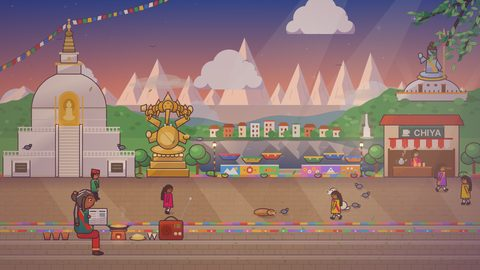
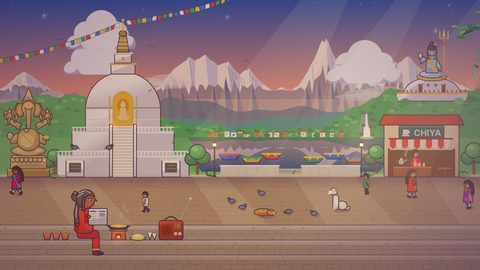
Pokhara: irregular Himalayan range, plain kerbs and wall, Ganesh and stupa swapped, new Ganesh, red saree, no festival lights
Claude-Session: https://claude.ai/code/session_019ufPWj3H2YM7Ab3prv28rm

diff --git a/public/index.html b/public/index.html
@@ -740,7 +740,7 @@ function daiPlan(h){let mode='sit';if(dogNight(h))mode='sleep';
 function daiWalker(ret){const S=MIR?-1:1,dir=ret?S:-S,ch=who(),am=ch==='aama',dd=ch==='didi'||am;const w=newWalker(true,dd?'didi':'dai');
   Object.assign(w,{dir,x:ret?(S>0?-16:W+16):mx(GX+6),y:147,sp:7,daiW:true,ret,cup:ret,bcols:[],umbItem:true,umb:'#1d1d24',skin:'#a86b45',hair:'#1b1410'},
     dd?{shirt:'#8a2a4a',shirtD:'#6e1f3a',shirt2:'#e8b04a',legC:'#4a3a5a',topi:false}:ch==='baje'?{shirt:'#34343a',shirtD:'#28282c',shirt2:'#34343a',legC:'#d8ccb4',hair:'#bdb7ae',topi:true,topiCol:'#1c1c1e',stick:true}:{shirt:'#3d4a5c',shirtD:'#35404f',shirt2:'#3d4a5c',legC:'#2f2f3a',topi:true});
-  if(am)Object.assign(w,{shirt:'#1f6a5c',shirtD:'#17524a',shirt2:'#b8322a',legC:'#b8322a',skin:'#8a563a',hair:'#4a4440'});return w;}
+  if(am)Object.assign(w,{shirt:'#b8322a',shirtD:'#8e2219',shirt2:'#cf463a',legC:'#b8322a',skin:'#8a563a',hair:'#4a4440'});return w;}
 function updDai(h,dt){const P=daiPlan(h);dai=P;
   if(st.tm==='live'&&daiPrev&&daiPrev!=='away'&&P.mode==='away'){walkers.push(daiWalker(false));daiRet=false;}
   if(st.tm==='live'&&P.mode==='away'&&P.left<11&&!daiRet){daiRet=true;walkers.push(daiWalker(true));}
@@ -760,14 +760,14 @@ function drawRadio(c){const x=GX+ROFF;
   R(c,rx+10,ry+7,2,2,'#c9b48a');R(c,rx+13,ry+7,2,2,'#c9b48a');R(c,rx+10,ry+7,1,1,'#efe2c8');R(c,rx+13,ry+7,1,1,'#efe2c8');
   for(let i=0;i<14;i++)R(c,rx+14+Math.floor(i*.5),ry-1-i,1,1,'#9aa0a6');R(c,rx+20,ry-15,2,2,'#cfd4d8');
 }
-function drawSitting(c){const am=who()==='aama',dd=who()==='didi'||am,bj=who()==='baje',x=GX,b=radioOn&&!daiSip?Math.floor(performance.now()/1000*curTempo()/60)%2:0,hy=131+b,skin=am?'#8a563a':'#a86b45',skD=am?'#70432c':'#8d5a3b',jk=am?'#1f6a5c':dd?'#8a2a4a':bj?'#34343a':'#3d4a5c',jkD=am?'#17524a':dd?'#6e1f3a':bj?'#28282c':'#35404f',pant=am?'#b8322a':dd?'#4a3a5a':bj?'#d8ccb4':'#2f2f3a',hair=bj?'#bdb7ae':am?'#4a4440':'#1b1410';
+function drawSitting(c){const am=who()==='aama',dd=who()==='didi'||am,bj=who()==='baje',x=GX,b=radioOn&&!daiSip?Math.floor(performance.now()/1000*curTempo()/60)%2:0,hy=131+b,skin=am?'#8a563a':'#a86b45',skD=am?'#70432c':'#8d5a3b',jk=am?'#b8322a':dd?'#8a2a4a':bj?'#34343a':'#3d4a5c',jkD=am?'#8e2219':dd?'#6e1f3a':bj?'#28282c':'#35404f',pant=am?'#b8322a':dd?'#4a3a5a':bj?'#d8ccb4':'#2f2f3a',hair=bj?'#bdb7ae':am?'#4a4440':'#1b1410';
   // legs: thigh on the step, shin down to the next step
   R(c,x+2,154,13,5,pant);R(c,x+2,154,13,1,am?'#8e2219':'#3a3a46');R(c,x+12,159,4,9,pant);R(c,x+15,159,1,9,am?'#8e2219':'#26262f');
   if(am){R(c,x+11,160,1,8,pant);R(c,x+11,167,5,1,'#e8b04a');}
   R(c,x+11,168,7,2,'#241b15');R(c,x+17,169,1,1,'#241b15');
   // body
   R(c,x+1,140,10,1,jk);R(c,x,141,12,14,jk);R(c,x,141,2,14,jkD);
-  if(dd){for(let i=0;i<12;i++)R(c,x+1+Math.floor(i*.75),141+i,3,1,am?'#b8322a':'#e8b04a');if(am)for(let i=0;i<12;i++)R(c,x+4+Math.floor(i*.75),141+i,1,1,'#e8b04a');}   // her shawl across the kurta (the aama: the end of her saree)
+  if(dd){for(let i=0;i<12;i++)R(c,x+1+Math.floor(i*.75),141+i,3,1,am?'#cf463a':'#e8b04a');}   // her shawl across the kurta (the aama: the end of her saree)
   else{R(c,x+8,140,3,1,'#e9dcc3');R(c,x+9,141,2,3,'#e9dcc3');R(c,x+8,141,1,8,'#2c3746');R(c,x+3,149,3,1,'#2c3746');}
   // reading: newspaper in the morning, a book later; lowers it to sip fresh tea
   const sip=daiSip;R(c,x+6,142,3,7,jkD);
@@ -834,7 +834,7 @@ let fest=null;
 /* Kukur Tihar (the dogs' day): calendars give 7-8 Nov 2026, so both days. Preview: chiyabreak.com/#kukur */
 const KUKUR=['2026-11-07','2026-11-08'];let kukur=false;
 function pickKukur(){if(location.hash.slice(1).toLowerCase()==='kukur')return true;const ds=new Date(Date.now()+5.75*3600e3).toISOString().slice(0,10);return KUKUR.includes(ds);}
-function pickFest(){const hs=location.hash.slice(1).toLowerCase();kukur=pickKukur();if(hs==='kukur')return 'tihar';if(FESTS.some(f=>f.name===hs))return hs;
+function pickFest(){if(place==='pkr'){kukur=false;return null;}const hs=location.hash.slice(1).toLowerCase();kukur=pickKukur();if(hs==='kukur')return 'tihar';if(FESTS.some(f=>f.name===hs))return hs;
   const ds=new Date(Date.now()+5.75*3600e3).toISOString().slice(0,10),f=FESTS.find(f=>ds>=f.from&&ds<=f.to);return f?f.name:null;}
 fest=pickFest();setInterval(()=>{fest=pickFest();},30000);addEventListener('hashchange',()=>{fest=pickFest();});
 const textW=t=>[...t].reduce((a,ch)=>a+(GL[ch]?GL[ch][0].length:3)+1,0)-1;
@@ -1040,7 +1040,7 @@ function anSky(h,night,warm,grey,ct){const X=C,[top,bot]=skyAt(h),day=1-night;WI
 }
 
 /* ---------- prayer flags (lungta) strung from the temple tops ---------- */
-const AN_FLAGS={ktm:[[160,23,-6,27],[160,23,326,36]],patan:[[157,7,-6,52],[157,7,326,33]],bkt:[[165,9,-6,29],[165,9,326,37]],pkr:[[46,14,-6,48],[46,14,128,-8]]};
+const AN_FLAGS={ktm:[[160,23,-6,27],[160,23,326,36]],patan:[[157,7,-6,52],[157,7,326,33]],bkt:[[165,9,-6,29],[165,9,326,37]],pkr:[[82,14,-6,40],[82,14,170,-8]]};
 function anFlags(){const F=AN_FLAGS[place];if(!F)return;const cols=['#2f72d8','#fbf6ea','#e03a30','#34ad5c','#f7c832'];
   F.forEach(([x1,y1,x2,y2],si)=>{const len=Math.hypot(x2-x1,y2-y1),n=Math.floor(len/3.5),cxm=(x1+x2)/2,cym=(y1+y2)/2+len*.07+Math.sin(T*.8+si)*.7;
     const pt=t=>{const u=1-t;return[u*u*x1+2*u*t*cxm+t*t*x2,u*u*y1+2*u*t*cym+t*t*y2];};
@@ -1057,9 +1057,10 @@ function anLeaf(x,y,ang,s,col,ink){C.save();C.translate(x,y);C.rotate(ang);C.beg
   if(ink){C.lineWidth=.2;C.strokeStyle=ink;C.stroke();C.beginPath();C.moveTo(s*.12,0);C.lineTo(s*.8,0);C.stroke();}C.restore();}
 function anFront(night){const day=1-night,dk=hex('#141a3c'),tone=c=>css(mixA(hex(c),dk,night*.72));
   // the branch in the top right corner, swaying
+  C.save();if(place==='pkr')C.translate(29,9);
   sStroke([324,-4,300,5,280,13],tone('#5a3a26'),1.3);sStroke([312,1,304,16,298,30],tone('#5a3a26'),.9);sStroke([322,8,312,26,307,38],tone('#5a3a26'),.8);
   const G=['#2a7242','#3c9450','#62b65c','#9ad66c'],ink=`rgba(30,24,44,${.55})`;
-  AN_LEAVES.forEach(l=>anLeaf(l.x+Math.sin(T*1.1+l.p)*.5*WIND,l.y+Math.cos(T*.9+l.p)*.3,l.a+Math.sin(T*1.5+l.p)*.16*WIND,l.s,tone(G[l.c]),l.c>1?ink:''));
+  AN_LEAVES.forEach(l=>anLeaf(l.x+Math.sin(T*1.1+l.p)*.5*WIND,l.y+Math.cos(T*.9+l.p)*.3,l.a+Math.sin(T*1.5+l.p)*.16*WIND,l.s,tone(G[l.c]),l.c>1?ink:''));C.restore();
   // leaves and petals carried on the wind
   if(wx.rain<.5)for(let i=0;i<11;i++){const sp=9+i%4*3,x=((T*sp+i*83)%372)-26,y=((T*(4.5+i%3*1.6)+i*47)%196)-8+Math.sin(T*1.3+i)*4;
     anLeaf(x,y,T*(1.6+i%3*.5)+i,2.2+i%3*.5,tone(i%4===0?'#f29ab0':i%4===1?'#f4c24a':G[2+i%2]),'rgba(30,24,44,.4)');}
@@ -1402,12 +1403,12 @@ function sRadio(){const rx=GX+20+ROFF,ry=147;
   sC(rx+5,ry+6.9,3.8,'#5a2018',0);for(let a=0;a<TAU;a+=TAU/8)sC(rx+5+Math.cos(a)*2.3,ry+6.9+Math.sin(a)*2.3,.38,'#2e100c',0);sC(rx+5,ry+6.9,.7,'#2e100c',0);
   sR(rx+10,ry+2.2,4.3,3,.5,radioOn?'#ffd27a':'#6b5a3a',0);sB(rx+11+(radioOn?Math.sin(T*.6)*1.2+1:0),ry+2.2,.5,3,'#7a2e22');
   sC(rx+11.1,ry+8.8,1.1,'#c9b48a',0);sC(rx+13.9,ry+8.8,1.1,'#c9b48a',0);sC(rx+10.8,ry+8.5,.35,'#efe2c8',0);sC(rx+13.6,ry+8.5,.35,'#efe2c8',0);}
-function sDaiSit(){const am=who()==='aama',dd=who()==='didi'||am,bj=who()==='baje',x=GX,b=radioOn&&!daiSip?(TH.an?(.5-.5*Math.cos(performance.now()/1000*curTempo()/60*Math.PI))*.9+.001:(Math.floor(performance.now()/1000*curTempo()/60)%2)*.8):0,hy=131+b,skin=am?'#8a563a':'#a86b45',skD=am?'#70432c':'#8d5a3b',jk=am?'#1f6a5c':dd?'#8a2a4a':bj?'#34343a':'#3d4a5c',jkD=am?'#17524a':dd?'#6e1f3a':bj?'#28282c':'#33404f',pant=am?'#b8322a':dd?'#4a3a5a':bj?'#d8ccb4':'#2f2f3a',hair=bj?'#bdb7ae':am?'#4a4440':'#1b1410';
+function sDaiSit(){const am=who()==='aama',dd=who()==='didi'||am,bj=who()==='baje',x=GX,b=radioOn&&!daiSip?(TH.an?(.5-.5*Math.cos(performance.now()/1000*curTempo()/60*Math.PI))*.9+.001:(Math.floor(performance.now()/1000*curTempo()/60)%2)*.8):0,hy=131+b,skin=am?'#8a563a':'#a86b45',skD=am?'#70432c':'#8d5a3b',jk=am?'#b8322a':dd?'#8a2a4a':bj?'#34343a':'#3d4a5c',jkD=am?'#8e2219':dd?'#6e1f3a':bj?'#28282c':'#33404f',pant=am?'#b8322a':dd?'#4a3a5a':bj?'#d8ccb4':'#2f2f3a',hair=bj?'#bdb7ae':am?'#4a4440':'#1b1410';
   sR(x+11.6,156,4.6,12.6,1.8,pant);sE(x+15.3,168.9,3.7,1.35,'#241b15');
   sR(x+1.4,153.4,14.6,5.4,2.4,pant);
   sR(x-.4,139.6,12.6,16,3.2,jk);sR(x+.3,141.2,2.4,13.4,1.2,jkD,0);
-  if(dd)sP([x+.2,140.2,x+3.4,139.8,x+11.6,152.4,x+8.4,153.6],am?'#b8322a':'#e8b04a',0);   // her shawl (the aama: the end of her saree, with a gold border)
-  if(am){sL(x+3.4,139.9,x+11.6,152.4,'#e8b04a',.5);sR(x+11.4,165.6,5,1.1,.4,'#e8b04a',0);}
+  if(dd)sP([x+.2,140.2,x+3.4,139.8,x+11.6,152.4,x+8.4,153.6],am?'#cf463a':'#e8b04a',0);   // her shawl (the aama: the end of her red saree)
+  if(am)sR(x+11.4,165.8,5,.9,.4,'#e8b04a',0);
   else{sP([x+7.6,139.8,x+11.4,139.8,x+9.8,145.2],'#e9dcc3',0);sL(x+8.4,142,x+8.4,149.6,'#2c3746',.35);}
   const tend=am&&pkTend();
   if(dai.read==='paper'){const py=daiSip||tend?147:139;
@@ -1790,18 +1791,20 @@ function pkBoat(D,x,y,len,c1,c2,s=1){const hl=len/2;D.poly([x-hl,y-1.7*s,x+hl,y-
   D.rect(x-hl*.45,y-1.5*s,1.1*s,1*s,c2);D.rect(x+hl*.3,y-1.5*s,1.1*s,1*s,c2);}
 function pkrGround(D){const r=D.px?rnd:srnd;
   const ridge=(f)=>{const p=[0,LAKE_Y+1];for(let x=0;x<=320;x+=4)p.push(x,f(x));p.push(320,LAKE_Y+1);return p;};
-  D.poly(ridge(x=>78+3*Math.sin(x*.045+1)+1.6*Math.sin(x*.13)),'#6c8e99');
+  D.poly(ridge(x=>79+2.6*Math.sin(x*.045+1)+1.4*Math.sin(x*.13)),'#4f7b74');
   D.poly(ridge(pkHillY),'#4c8a57');
   for(let i=0;i<230;i++){const x=r()*320,t=pkHillY(x),y=t+1.2+r()*Math.max(1,LAKE_Y-t-3);D.ell(x,y,1.3+r()*1.2,.9+r()*.5,i%3===0?'#66a968':i%3===1?'#3f7449':'#447d4f');}
   // a waterfall down the hillside
   D.poly([241,77,243,74.8,246.4,75,248.6,78,249.2,86,248,92,240,92,239.6,85,240.6,80],'#667a66');D.poly([241,77,243,74.8,244,78,242,84,239.8,88,239.6,85,240.6,80],'#7d8f78');
   D.poly([243.7,76,244.9,76,245.3,83.4,246.6,84.6,247,92,242.2,92,242.5,84.6,243.4,83.4],'#f2f8fa');D.poly([244,76,244.5,76,244.8,83.6,245.3,92,244.4,92,244.2,84],'#ffffff');
   [[242.2,83.6],[247.2,84.4],[241,89.4],[248.2,89.8]].forEach(([x,y])=>D.ell(x,y,1.4,1,'#4f5d50'));[[242,75],[247,75.6],[249,80]].forEach(([x,y])=>D.ell(x,y,2,1.3,'#3f7449'));
-  // houses on the far shore: a few old village houses and a few newer ones
-  [[140,86,6,'#e9e2d2','#8a4a34'],[149,85,7,'#c9785a','#6e3e2c'],[159,84,5,'#f1e3b8','#7a4632'],[167,82,6,'#e6ecef','#5d7f96',1],[176,81,7,'#f3d7c4','#b0553e',1],[186,84,6,'#e9e2d2','#8a4a34'],[195,83,5,'#d9e6d2','#4f7a5a',1],[203,85,7,'#c9785a','#6e3e2c'],[213,86,6,'#f1e3b8','#7a4632'],[222,87,5,'#e9e2d2','#8a4a34']].forEach(([x,y,w,col,rf,flat])=>{
-    D.rect(x,y,w,LAKE_Y-y,col);if(flat)D.rect(x-.5,y-.8,w+1,.9,rf);else D.poly([x-1,y,x+w+1,y,x+w-1,y-2.4,x+1,y-2.4],rf);
-    for(let wy=y+1.6;wy<LAKE_Y-2;wy+=3)for(let wx=x+1.2;wx<x+w-1.5;wx+=2.6){D.rect(wx,wy,1.2,1.5,'#4e2c1e');if(D.px)winGlow.push({x:wx,y:wy,w:1,h:2,on:Math.random()<.6,a:.6,rand:1});}});
-  [133,146,157,181,191,209,219,228].forEach((x,i)=>{D.ell(x,LAKE_Y-2.6,2.4,2.6,i%2?'#3f7449':'#4f8f58');});
+  // a far-away village on the other shore: small houses, old and new
+  {let q=77;const rr=()=>{q=(q*16807)%2147483647;return q/2147483647;},cols=[['#e9e2d2','#8a4a34'],['#c9785a','#6e3e2c'],['#f1e3b8','#7a4632'],['#e6ecef','#5d7f96'],['#f3d7c4','#b0553e'],['#d9e6d2','#4f7a5a']];
+    for(let x=139;x<229;){const w=2.4+rr()*1.6,hh=1.8+rr()*2,[col,rf]=cols[(rr()*cols.length)|0],y=LAKE_Y-.6-hh;
+      D.rect(x,y,w,hh+.2,col);if(rr()<.35)D.rect(x-.3,y-.5,w+.6,.6,rf);else D.poly([x-.5,y,x+w+.5,y,x+w-.5,y-1.2,x+.5,y-1.2],rf);
+      D.rect(x+w*.3,y+hh*.35,.7,.8,'#4e2c1e');if(D.px&&rr()<.7)winGlow.push({x:x+w*.3,y:y+hh*.35,w:1,h:1,on:Math.random()<.6,a:.7,rand:1});
+      x+=w+.6+rr()*3.4;}}
+  [134,147,160,178,196,211,224,231].forEach((x,i)=>{D.ell(x,LAKE_Y-1.6,1.9,1.7,i%2?'#3f7449':'#4f8f58');});
   D.rect(126,LAKE_Y-.6,134,1.6,'#3d6b47');
   // the banks on both sides of the lake, and the grass along the road
   D.poly([0,LAKE_Y,125,LAKE_Y,131,100,129,108,136,116,0,116],'#5d9e5e');D.poly([320,LAKE_Y,262,LAKE_Y,256,99,259,108,251,116,320,116],'#5d9e5e');
@@ -1811,24 +1814,15 @@ function pkrGround(D){const r=D.px?rnd:srnd;
   for(let y=118;y<150;y+=3.2){D.rect(0,y,320,.3,'#806a52');const off=((y-118)/3.2|0)%2?4:0;for(let x=off;x<320;x+=8)D.rect(x,y,.3,3.2,'#806a52');}
   for(let i=0;i<90;i++)D.rect(r()*317,119+r()*29,2.4,.8,r()<.5?'rgba(255,236,205,.13)':'rgba(50,28,12,.1)');
   if(!D.px&&TH.an)[[26,34],[128,22],[196,40],[286,26]].forEach(([x,w])=>{C.beginPath();C.moveTo(x,118);C.lineTo(x+w,118);C.lineTo(x+w+30,151);C.lineTo(x+22,151);C.closePath();C.fillStyle='rgba(255,240,186,.2)';C.fill();});
-  // Pokhara paints its roadsides: kerb stones in every colour on both sides of the road
-  for(let x=0,i=0;x<320;x+=5,i++){D.rect(x,116.4,5,1.7,PK_PAINT[i%7]);D.rect(x,148.4,5,1.7,PK_PAINT[(i+3)%7]);}
+  D.rect(0,116.4,320,1.7,'#b9ad98');D.rect(0,116.4,320,.5,'#d2c8b6');
 }
-/* --- the lakeside wall, painted with murals; the gap in the middle is the ghat where the boats leave --- */
+/* --- a plain low stone wall along the lake; the gap in the middle is the ghat where the boats leave --- */
 function pkMuralWall(D){
-  const seg=(x,w,bg,fn)=>{D.rect(x,110.4,w,6,bg);fn(x,w);};
-  const M=[['#3aa0e8',(x,w)=>{D.poly([x+1,116.4,x+4.5,112,x+6.4,114,x+8.6,111.4,x+w-1,116.4],'#fbf6ea');D.ell(x+w-2.6,112.4,1.1,1.1,'#f2c230');}],
-    ['#f2c230',(x,w)=>{D.ell(x+w/2,113.4,2.3,2.3,'#e8443a');D.ell(x+w/2,113.4,1.1,1.1,'#fbf6ea');[[-3.6,0],[3.6,0],[0,-2.6]].forEach(([a,b2])=>D.rect(x+w/2+a-.4,113+b2,.9,.9,'#e8443a'));}],
-    ['#5fbf6a',(x,w)=>{D.ell(x+w/2-.6,113.6,3,1.5,'#f08a2a');D.poly([x+w/2+2,113.6,x+w/2+4.2,112,x+w/2+4.2,115.2],'#f08a2a');D.rect(x+w/2-2.4,113,.8,.8,'#2a2a2a');}],
-    ['#e86fb4',(x,w)=>{[[2.4,113],[5.4,114.4],[8.2,112.6],[10.6,114.6]].forEach(([a,b2],i)=>{if(a<w-1){D.ell(x+a,b2,1.2,1.2,i%2?'#fbf6ea':'#f2c230');D.rect(x+a-.3,b2-.3,.7,.7,'#e8443a');}});}],
-    ['#9b6be8',(x,w)=>{D.poly([x+w/2,111.4,x+w/2+3.4,116,x+w/2-3.4,116],'#fbf6ea');D.rect(x+w/2-.4,112.8,.9,.9,'#3aa0e8');D.rect(x+1,115,w-2,.7,'#f2c230');}],
-    ['#f08a2a',(x,w)=>{for(let k=1.6;k<w-1;k+=2.6){D.rect(x+k,111.6+(k|0)%2*1.6,1.4,1.4,'#fbf6ea');D.rect(x+k,114.4-(k|0)%2*.8,1.4,1.2,'#3aa0e8');}}]];
-  [[147,186],[201,240]].forEach(([a,z],s)=>{let i=s*3;for(let x=a;x<z;x+=13,i++){const w=Math.min(13,z-x),m=M[i%M.length];seg(x,w,m[0],m[1]);}D.rect(a,109.8,z-a,.8,'#fbf6ea');});
-  // stone steps down to the water at the ghat
+  [[147,186],[201,240]].forEach(([a,z])=>{D.rect(a,110.8,z-a,5.6,'#cbc2b0');for(let x=a+6;x<z;x+=6)D.rect(x,111.6,.3,4.8,'#b4aa96');D.rect(a-.5,110,z-a+1,1.1,'#e3dccd');});
   D.rect(186,112.4,15,1.4,'#b9ad9a');D.rect(186,113.8,15,1.3,'#a39783');D.rect(186,115.1,15,1.4,'#b9ad9a');
 }
 /* --- the World Peace Stupa (the white gumba): terraces with white railings, the dome with a golden Buddha, the gilded spire --- */
-function peaceStupa(D){const cx=46,W1='#f1ede2',W2='#dcd6c8',W3='#bdb5a4',G=PGOLD;
+function peaceStupa(D){const cx=46,W1='#f1ede2',W2='#dcd6c8',W3='#bdb5a4',G='#bf9b4c',PGOLDL='#d9c080';
   const rail=(x,y,w)=>{D.rect(x,y,w,.8,W1);D.rect(x,y+2.6,w,.7,W2);for(let xx=x+.6;xx<x+w-.5;xx+=2.4)D.rect(xx,y+.6,.8,2.6,W1);};
   // dome, then the drum it stands on
   {const p=[];for(let k=0;k<=24;k++){const a=Math.PI+k*Math.PI/24;p.push(cx+Math.cos(a)*25,73+Math.sin(a)*25);}D.poly(p,W1,1);}
@@ -1850,26 +1844,34 @@ function peaceStupa(D){const cx=46,W1='#f1ede2',W2='#dcd6c8',W3='#bdb5a4',G=PGOL
   D.rect(cx-7,84,14,34,'#e7e1d3');for(let y=85;y<118;y+=2)D.rect(cx-7,y,14,.6,W3);
   D.poly([cx-9,118,cx-7,118,cx-7,83,cx-9,83],W1,1);D.poly([cx+7,118,cx+9,118,cx+9,83,cx+7,83],W1,1);
 }
-/* --- the golden five-headed (Panchamukhi) Ganesh on his lotus throne --- */
-function pkGanesh(D){const cx=112,G=PGOLD,L=PGOLDL,K2=PGOLDD;
-  D.rect(98,112.4,28,5.6,K2,1);D.rect(98,112.4,28,.9,L);D.rect(100,107.6,24,4.8,G,1);D.rect(100,107.6,24,.9,L);D.rect(102,103.8,20,3.8,G,1);
-  for(let x=103.4;x<121;x+=2.9)D.ell(x,103.4,1.6,1.3,L,1);
-  // crossed legs, round belly
-  D.ell(cx,99.6,11.4,3.5,G,1);D.ell(cx-6,99.2,3.4,1.5,L);D.ell(cx+6,99.2,3.4,1.5,L);
-  // four arms: an axe and a lotus held high, a blessing hand and a bowl of laddus below
-  D.poly([cx-6,85.4,cx-14.6,79.6,cx-13.4,76.4,cx-4.6,81],G,1);D.line(cx-14.4,80.6,cx-14.4,69.4,K2,.7);D.poly([cx-14.4,69.6,cx-18,70.8,cx-18,74.2,cx-14.4,74],L,1);
-  D.poly([cx+6,85.4,cx+14.6,79.6,cx+13.4,76.4,cx+4.6,81],G,1);D.line(cx+14.2,78,cx+14.6,75,K2,.5);D.ell(cx+14.8,73,1.8,2.5,L,1);
-  D.ell(cx,91.4,7.8,8,G,1);D.ell(cx-.6,92.4,4.6,4.4,L);
-  D.poly([cx-7,87,cx-13.4,90.4,cx-12.4,95.4,cx-7.6,94],G,1);D.ell(cx-12.8,89.6,1.9,2.4,L,1);
-  D.poly([cx+7,87,cx+13.4,91,cx+11.6,96,cx+7.2,94],G,1);D.ell(cx+12.4,91.6,2.3,1.3,K2,1);[[11.4,90.6],[12.6,90.2],[13.6,90.8]].forEach(([a,b2])=>D.ell(cx+a,b2,.8,.8,L));
-  D.line(cx-5,86.4,cx+4,96,K2,.5);
-  // the heads: two on each side and the big one in the middle, each with big ears, a trunk and a pointed crown
-  const head=(x,y,s,dir,tl)=>{D.ell(x-3*s,y+.2*s,2.1*s,2.7*s,K2,1);D.ell(x+3*s,y+.2*s,2.1*s,2.7*s,K2,1);
-    D.poly([x-2.6*s,y-2.2*s,x+2.6*s,y-2.2*s,x+1.7*s,y-4.2*s,x,y-7*s,x-1.7*s,y-4.2*s],L,1);D.ell(x,y-7.1*s,.65*s,.65*s,'#e03a30');D.rect(x-2.6*s,y-2.7*s,5.2*s,.9*s,G);
-    D.ell(x,y,2.8*s,3*s,G,1);D.poly([x-1.15*s,y+1.4*s,x+1.15*s,y+1.4*s,x+(.8+dir*1.5)*s,y+tl*s,x+(-.7+dir*1.5)*s,y+tl*s],G,1);
-    D.rect(x-1.6*s,y-.5*s,.7,.7,'#3a2a14');D.rect(x+1.1*s,y-.5*s,.7,.7,'#3a2a14');D.rect(x-.5*s,y-1.9*s,1*s,.7,'#e03a30');};
-  head(cx-11.4,75,.74,-1,6.2);head(cx+11.4,75,.74,1,6.2);head(cx-6.2,72.4,.86,-1,6.6);head(cx+6.2,72.4,.86,1,6.6);head(cx,71,1.3,-.5,9);
-  D.rect(cx-2.4,82.6,.9,1.7,'#fbf6ea');D.rect(cx+1.5,82.6,.9,1.7,'#fbf6ea');
+/* --- the five-headed (Panchamukhi) Ganesh on his lotus throne: the big elephant head faces the front,
+       two smaller heads look out on each side, and every head has its own trunk and pointed crown --- */
+function pkGanesh(D){const cx=19,G='#b99444',L='#d6ba70',K2='#8c6e2e',K3='#6f5622';
+  D.rect(cx-14,112.6,28,5.4,K2,1);D.rect(cx-14,112.6,28,.8,L);D.rect(cx-12,108,24,4.6,G,1);D.rect(cx-12,108,24,.8,L);
+  for(let x=cx-10.4;x<cx+11;x+=3)D.ell(x,106.4,1.7,1.9,G,1);D.rect(cx-11,103.6,22,1.6,L,1);
+  // crossed legs
+  D.ell(cx,100.4,11.6,3.4,G,1);D.ell(cx-6.4,100.2,3.2,1.3,L);D.ell(cx+6.4,100.2,3.2,1.3,L);
+  // upper arms holding an axe and a lotus bud
+  D.poly([cx-6,86.6,cx-13.4,81.6,cx-12.4,78.8,cx-4.8,82.6],G,1);D.line(cx-13.2,82.6,cx-13.2,73.6,K3,.7);D.poly([cx-13.2,73.8,cx-16.2,74.8,cx-16.2,77.6,cx-13.2,77.4],L,1);
+  D.poly([cx+6,86.6,cx+13.4,81.6,cx+12.4,78.8,cx+4.8,82.6],G,1);D.line(cx+13,80.4,cx+13.4,77.6,K3,.5);D.ell(cx+13.6,76,1.5,2.1,L,1);
+  // the four side heads (drawn first, so they sit behind the big one)
+  const side=(x,y,s,d)=>{D.ell(x+d*2.3*s,y+.3*s,1.9*s,2.6*s,K2,1);
+    D.poly([x-2.2*s,y-2.3*s,x+2.2*s,y-2.3*s,x+1.3*s,y-4*s,x,y-6.8*s,x-1.3*s,y-4*s],L,1);D.rect(x-2.3*s,y-2.8*s,4.6*s,.9*s,G);
+    D.ell(x,y,2.5*s,2.8*s,G,1);D.poly([x-1*s,y+1.2*s,x+1*s,y+1.2*s,x+(.9+d*1.3)*s,y+6.4*s,x+(-.5+d*1.3)*s,y+6.4*s],G,1);D.ell(x+d*1.6*s,y+6.5*s,.9*s,.8*s,G,1);
+    D.rect(x+d*.9*s-.3,y-.6*s,.7,.7,'#2e2110');};
+  side(cx-12.6,77.6,.82,-1);side(cx+12.6,77.6,.82,1);side(cx-7.6,75,.94,-1);side(cx+7.6,75,.94,1);
+  // round belly and chest, the lower hands: one raised in blessing, one holding a bowl of laddus
+  D.ell(cx,93,8,7.6,G,1);D.ell(cx-.8,94,4.6,4.2,L);D.line(cx-5.4,88,cx+4.4,97.6,K2,.5);
+  D.poly([cx-7,88.6,cx-12.6,91.6,cx-11.8,96,cx-7.4,95],G,1);D.ell(cx-12.2,90.6,1.9,2.4,L,1);D.rect(cx-12.6,90.2,.8,.8,'#b0483a');
+  D.poly([cx+7,88.6,cx+12.6,92,cx+11,96.6,cx+7.2,95],G,1);D.ell(cx+11.8,92.4,2.3,1.2,K2,1);[[10.8,91.5],[12,91.1],[13,91.7]].forEach(([a,b2])=>D.ell(cx+a,b2,.8,.8,L));
+  // the big head in front: wide ears, a broad forehead, eyes, tusks and a long trunk curling at the end
+  D.ell(cx-5.4,73.4,3.2,4.6,K2,1);D.ell(cx+5.4,73.4,3.2,4.6,K2,1);D.ell(cx-5.6,73.6,1.6,2.8,G);D.ell(cx+5.6,73.6,1.6,2.8,G);
+  D.poly([cx-3.9,67.4,cx+3.9,67.4,cx+2.4,64.4,cx,58.4,cx-2.4,64.4],L,1);D.ell(cx,58.2,.8,.8,'#b0483a');D.rect(cx-4.1,66.8,8.2,1.3,G,1);D.rect(cx-.5,65,1,1,'#b0483a');
+  D.ell(cx,72.2,4.6,4.8,G,1);D.ell(cx,70.2,3,1.6,L);
+  D.poly([cx-1.9,73,cx+1.9,73,cx+1.5,80,cx+1.1,86,cx-1.1,86.4,cx-1.4,80],G,1);D.ell(cx-1.4,87,1.6,1.3,G,1);D.ell(cx-1.7,87,.6,.5,K2);
+  [76,78.2,80.4,82.6].forEach(y=>D.line(cx-1.2,y,cx+1.2,y,K2,.25));
+  D.rect(cx-2.8,71.6,1,1,'#2e2110');D.rect(cx+1.8,71.6,1,1,'#2e2110');D.rect(cx-.4,69.2,.8,1.2,'#b0483a');
+  D.poly([cx-2.7,75.4,cx-1.9,75.4,cx-2.6,78.2],'#f4eedc');D.poly([cx+2.7,75.4,cx+1.9,75.4,cx+2.6,78.2],'#f4eedc');
 }
 /* --- the great Shiva of Pumdikot with his trishul, seated on a white dome on the hilltop --- */
 function pkShiva(D){const cx=288,SKN='#8fb6d6',SKL='#b4d2e8',TG='#c9952e',HR='#3a2c22';
@@ -1888,8 +1890,8 @@ function pkShiva(D){const cx=288,SKN='#8fb6d6',SKL='#b4d2e8',TG='#c9952e',HR='#3
   D.ell(cx,34.4,2.8,3,SKN,1);D.ell(cx,31.8,2.9,1.7,HR,1);D.ell(cx,29.6,1.6,1.6,HR,1);D.rect(cx+1.4,29.2,1.2,.8,'#f4f1e8');
   D.rect(cx-1.5,34,.7,.7,'#1a1410');D.rect(cx+.8,34,.7,.7,'#1a1410');D.rect(cx-.3,32.8,.6,.8,'#e03a30');
   // trishul and damaru
-  D.rect(cx+7.5,24,.9,27.4,'#c9a443');D.poly([cx+7.95,18.4,cx+9.1,24.6,cx+6.8,24.6],'#e8c868');
-  D.line(cx+5.2,21,cx+5.2,25.6,'#e8c868',.8);D.line(cx+10.7,21,cx+10.7,25.6,'#e8c868',.8);D.rect(cx+5,25.2,6,.9,'#c9a443');
+  D.rect(cx+7.5,24,.9,27.4,'#b3964c');D.poly([cx+7.95,18.4,cx+9.1,24.6,cx+6.8,24.6],'#d2ba78');
+  D.line(cx+5.2,21,cx+5.2,25.6,'#d2ba78',.8);D.line(cx+10.7,21,cx+10.7,25.6,'#d2ba78',.8);D.rect(cx+5,25.2,6,.9,'#b3964c');
   D.poly([cx+6.3,27.6,cx+9.6,27.6,cx+7.95,29.1],'#a8432f');D.poly([cx+6.3,30.6,cx+9.6,30.6,cx+7.95,29.1],'#a8432f');
 }
 /* --- the tea house under the hill: plaster walls and a red tin roof (the board and awning are the Patan ones) --- */
@@ -1899,19 +1901,16 @@ function pkChiyaHouse(D){
   pAt(D,30,pChiyaShop);
   if(D.px)BGLOW.push({x:260,y:100,w:42,h:18,on:true,a:.55,shop:'chiya'});
 }
-function pkrLamps(D){lampsPk.forEach((l,i)=>{D.rect(l.x-.45,l.y+1.4,.9,20.6,'#2a2522');[0,1,2,3].forEach(k=>D.rect(l.x-.45,l.y+15.4-k*4,.9,1.6,PK_PAINT[(k+i*2)%7]));
-  D.rect(l.x-1.3,l.y+21,2.6,1.1,'#2a2522');D.poly([l.x-1.6,l.y-.4,l.x+1.6,l.y-.4,l.x,l.y-2],'#3a3330');D.rect(l.x-1.1,l.y-.4,2.2,1.9,'#e8d6a0');});}
+function pkrLamps(D){lampsPk.forEach(l=>{D.rect(l.x-.45,l.y+1.4,.9,20.6,'#2a2522');D.rect(l.x-1.3,l.y+21,2.6,1.1,'#2a2522');D.poly([l.x-1.6,l.y-.4,l.x+1.6,l.y-.4,l.x,l.y-2],'#3a3330');D.rect(l.x-1.1,l.y-.4,2.2,1.9,'#e8d6a0');});}
 function pkrStatic(D){BGLOW=glowPk;
-  pkTree(D,93.4,117,1.05,'#356f43','#4c9456');pkTree(D,316,116,1.25);pkTree(D,251,115.6,1.15,'#356f43','#4c9456');
+  pkTree(D,36.4,117,1.05,'#356f43','#4c9456');pkTree(D,316,116,1.25);pkTree(D,251,115.6,1.15,'#356f43','#4c9456');
   pkShiva(D);[[262,66],[270,68],[306,67.6],[314,66]].forEach(([x,y],i)=>D.ell(x,y,3.4,2.4,i%2?'#3f7449':'#57a05c'));
   pkChiyaHouse(D);
   // painted boats pulled up at the shore
   [[153,105.2,14,'#2f72d8','#e8443a'],[168,107.2,14,'#f2c230','#3e8e5e'],[181,104.8,13,'#e8443a','#f2c230'],[209,107,13,'#3e8e5e','#f2c230'],[222.6,104.8,14,'#2f72d8','#f2c230'],[236,106.8,13,'#f08a2a','#2f72d8']].forEach(([x,y,l,a,b2])=>pkBoat(D,x,y,l,a,b2,1.2));
   pkMuralWall(D);
-  peaceStupa(D);pkGanesh(D);
-  pkTree(D,131.6,116.4,1.2);pkBush(D,140.4,117,.9,'#f2c230');pkBush(D,246,117,.9,'#e86fb4');pkBush(D,93,118.4,.8,'#e8443a');pkBush(D,309,118.2,1,'#f2c230');
-  // old tyres painted bright and planted with flowers along the kerb
-  [150,176,212,236].forEach((x,i)=>{D.ell(x,117,2.2,1.3,PK_PAINT[(i*2+1)%7],1);D.ell(x,116.2,1.5,.8,'#3f7449');D.rect(x-.9,115,.8,.8,PK_PAINT[(i+2)%7]);D.rect(x+.3,114.7,.8,.8,PK_PAINT[(i+4)%7]);});
+  pkGanesh(D);pAt(D,36,peaceStupa);
+  pkTree(D,131.6,116.4,1.2);pkBush(D,140.4,117,.9,'#f2c230');pkBush(D,246,117,.9,'#e86fb4');pkBush(D,36,118.4,.8,'#e8443a');pkBush(D,309,118.2,1,'#f2c230');
   pkrLamps(D);BGLOW=glowP;}
 // the steps in front: lake stone instead of brick, with a painted edge
 function pkrSteps(D){const r=D.px?rnd:srnd;
@@ -1921,24 +1920,45 @@ function pkrSteps(D){const r=D.px?rnd:srnd;
     if(!D.px&&TH.lw)sL(0,y+.1,320,y+.1,TH.ink,.35);
     for(let k=0;k<16;k++)D.rect(r()*318,y+1.2+r()*8,2,.7,'rgba(0,0,0,.12)');
     for(let k=0;k<7;k++)D.ell(r()*318,y+2.2,1.1,.5,'#6f8a44');});
-  for(let x=0,i=0;x<320;x+=6,i++){D.rect(x,153.2,6,1.5,PK_PAINT[(i*3+1)%7]);if(i%2)D.rect(x+2.4,153.6,1.2,.8,'#fbf6ea');}
 }
 (function buildPkrPx(){const keep=winGlow;winGlow=glowPk;DP.c=bPk;pkrGround(DP);pkrStatic(DP);winGlow=keep;windowVis(bPk,glowPk);DP.c=fPk;pkrSteps(DP);})();
 
-/* --- the Annapurna range behind the lake. Each peak: [x, top, width to the left, width to the right] --- */
-const PK_PEAKS=[[16,57,18,20],[48,62,12,12],[70,58,12,12],[90,48,13,10],[105,39,14,15],[126,50,9,11],[142,58,8,8],[163,25,17,19],[186,55,8,8],[199,42,12,10],[213,47,8,9],[229,40,11,11],[247,35,12,15],[268,54,9,9],[284,45,15,17],[308,58,10,12]]
-  .sort((a,b2)=>b2[1]-a[1]);   // Dhaulagiri … Annapurna South, Hiunchuli, Machhapuchhre (the sharp one), Annapurna III, Gangapurna, IV, II, Lamjung
-function pkPeaks(D,snow,snowS,rock,my){PK_PEAKS.forEach(([px,py,wl,wr])=>{const B=70,m=t=>my(py+(B-py)*t);
-  D.poly([px,my(py),px+wr,my(B),px-wl,my(B)],snowS);
-  D.poly([px,my(py),px-wl,my(B),px+wr*.14,my(B),px-wl*.1,m(.56),px+wr*.07,m(.3)],snow);
-  if(rock){D.line(px+wr*.3,m(.52),px+wr*.46,m(.76),rock,.3);D.line(px+wr*.52,m(.7),px+wr*.66,m(.9),rock,.3);D.line(px-wl*.34,m(.62),px-wl*.5,m(.86),rock,.25);}});}
+/* --- the Himalaya behind the lake, as one long irregular wall: Dhaulagiri far left, the broad Annapurna South massif
+       with Hiunchuli, the sharp fishtail of Machhapuchhre, then Annapurna III, IV, II and Lamjung.
+       Snow lies on the upper parts only; below it bare rock ribs run down into the haze and the dark foothills. --- */
+const PK_M=(()=>{const cp=[[-4,63],[4,57],[9,53],[13,49.5],[17,48],[21,50.5],[26,54],[33,59],[41,63.5],[50,61.5],[58,65],[68,62.5],[78,66],[88,63.5],[97,62],[104,59],[109,54],[114,48.5],[118,44.5],[122,41.5],[126,38],[130,40.6],[133,39],[137,36.4],[141,40.4],[145,43.6],[149,42],[152,40.8],[156,46],[160,49.6],[163,47],[166,45.6],[170,50.6],[175,56],[181,60.5],[188,58],[194,61],[199,57],[203,51],[206.5,45],[209.5,39.5],[212,33.4],[214.2,27.8],[215.2,26.8],[216.2,28.6],[217.4,25.6],[218.6,27.4],[220.4,32],[223,38],[226.5,43.6],[230,48],[234,51.6],[238,54.4],[242,50.4],[246,46.6],[249,45],[252,47.6],[255,45],[258,42.4],[262,40],[265,42.6],[268,40.6],[272,37.6],[275,40.4],[279,44.6],[284,49],[288,46.6],[291,45.6],[296,50],[303,55],[312,59],[324,62]];
+  let q=23;const r=()=>{q=(q*16807)%2147483647;return q/2147483647;},R=[];
+  for(let i=0;i<cp.length-1;i++){const[x0,y0]=cp[i],[x1,y1]=cp[i+1],n=Math.max(1,Math.round((x1-x0)/1.8));for(let k=0;k<n;k++){const t=k/n;R.push([x0+(x1-x0)*t,y0+(y1-y0)*t+(k?(r()-.5)*1.5:0)]);}}
+  R.push(cp[cp.length-1]);
+  // how far the snow reaches down below each point of the ridge: deep under the high summits, none on the low saddles
+  const S=R.map(([x,y],i)=>{const d=clamp((60.5-y)*.9,0,24);return y+d*(.5+.5*r())+(i%3===0?d*.28:0);});
+  const at=x=>{let b=0;for(let i=0;i<R.length;i++)if(Math.abs(R[i][0]-x)<Math.abs(R[b][0]-x))b=i;return b;};
+  // the shaded right-hand flank of every big summit
+  const SH=[[17,33],[126,130],[137,145],[152,160],[166,175],[217.4,238],[249,252],[262,265],[272,284],[291,303]].map(([a,z])=>[at(a),at(z)]);
+  // rock ribs showing through the snow, and rock buttresses below it
+  const RIB=[];R.forEach(([x,y],i)=>{const d=S[i]-y;if(d>5&&r()<.42)RIB.push([x+.4,y+1.4+r()*2,x+.8+r()*2.2,y+d*(.6+r()*.35)]);});
+  const BUT=[12,24,112,121,131,142,150,158,168,204,212,221,229,236,247,256,266,277,289].map(x=>{const i=at(x);return[x,S[i]-.6,4+r()*4,5+r()*5];});
+  return{R,S,SH,RIB,BUT};})();
+function pkPeaks(D,col,my,full){const{R,S,SH,RIB,BUT}=PK_M,n=R.length;
+  {const p=[];R.forEach(([x,y])=>p.push(x,my(y)));p.push(324,my(86),-4,my(86));D.poly(p,col.rock);}
+  if(full)BUT.forEach(([x,y,wl,wr])=>{D.poly([x,my(y),x-wl,my(84),x+.6,my(84)],col.rockL);D.poly([x,my(y),x+.6,my(84),x+wr,my(84)],col.rockD);});
+  {const p=[];R.forEach(([x,y])=>p.push(x,my(y)));for(let i=n-1;i>=0;i--)p.push(R[i][0],my(S[i]));D.poly(p,col.snow);}
+  SH.forEach(([a,z])=>{const p=[];for(let i=a;i<=z;i++)p.push(R[i][0],my(R[i][1]));for(let i=z;i>a;i--)p.push(R[i][0]-(i===a+1?.2:0),my(S[i]));D.poly(p,col.snowS);});
+  if(full)RIB.forEach(([x1,y1,x2,y2])=>D.line(x1,my(y1),x2,my(y2),col.rib,.3));}
+const pkFootY=x=>70.5+3.6*Math.sin(x*.027+2.2)+2.4*Math.sin(x*.083+.6)+1.1*Math.sin(x*.21);
+function pkMtnCols(night,warm,B0){const N=hex('#2b3260');
+  return{snow:css(mixA(mixA(mixA(hex('#fbfcfd'),hex('#ffc49a'),warm*.62),B0,.06),N,night*.42)),snowS:css(mixA(mixA(mixA(hex('#a9bbdb'),hex('#c98f96'),warm*.5),B0,.14),N,night*.5)),
+    rock:css(mixA(mixA(mixA(hex('#69708f'),hex('#8a6470'),warm*.45),B0,.24),N,night*.5)),rockL:css(mixA(mixA(mixA(hex('#8f8c9c'),hex('#c08a72'),warm*.55),B0,.2),N,night*.5)),
+    rockD:css(mixA(mixA(hex('#4e5778'),B0,.18),N,night*.5)),rib:css(mixA(mixA(hex('#5a6284'),B0,.15),N,night*.4),.85),
+    foot:css(mixA(mixA(mixA(hex('#465e72'),hex('#6a5a6a'),warm*.35),B0,.22),N,night*.55)),haze:css(mixA(B0,hex('#dfe8f0'),.25),.34)};}
 function pkCloudCol(night,warm){let cc=mixA(hex('#f4f6f8'),hex('#9aa1aa'),wx.rain);cc=mixA(cc,hex('#f2a07a'),warm*.45);return mixA(cc,hex('#2d3348'),night*.85);}
 function pkBlob(D,x,y,w,col){if(D.px){D.rect(x,y,w,4,col);D.rect(x+3,y-2,w-8,2,col);D.rect(x+7,y-4,Math.max(4,w-16),2,col);}
   else{D.ell(x+w*.5,y+1.6,w*.5,2.6,col);D.ell(x+w*.3,y-.4,w*.2,3,col);D.ell(x+w*.55,y-1.6,w*.24,3.8,col);D.ell(x+w*.76,y,w*.17,2.6,col);}}
 // mountains, then a bank of cloud that drifts across them and thins out again
-function pkrSkyBack(D,night,warm,B0){const c=D.px?D.c:C,pa=(1-wx.cloud*.9)*(1-wx.fog)*(1-night*.62);
-  if(pa>.02){c.globalAlpha=pa*.92;const snow=css(mixA(mixA(hex('#f8fafc'),hex('#ffb98a'),warm*.6),B0,.1+night*.38)),snowS=css(mixA(mixA(mixA(hex('#b6c7e6'),hex('#d99a9a'),warm*.5),B0,.16),hex('#3a4478'),night*.45)),rock=css(mixA(hex('#7f93b4'),B0,.34));
-    D.rect(-2,69.4,324,13,rock);pkPeaks(D,snow,snowS,css(mixA(hex('#5a6a94'),B0,.2),.7),y=>y);c.globalAlpha=1;}
+function pkrSkyBack(D,night,warm,B0){const c=D.px?D.c:C,pa=(1-wx.cloud*.9)*(1-wx.fog)*(1-night*.55);
+  if(pa>.02){c.globalAlpha=pa;const col=pkMtnCols(night,warm,B0);pkPeaks(D,col,y=>y,true);
+    D.rect(-2,66,324,20,col.haze);
+    {const p=[-2,86];for(let x=-2;x<=322;x+=4)p.push(x,pkFootY(x));p.push(322,86);D.poly(p,col.foot);}c.globalAlpha=1;}
   const cov=clamp(.3+.7*Math.sin(T*.011+1.1),0,1)*(1-wx.fog),cc=pkCloudCol(night,warm);
   if(cov>.03)[[0,60,54,1.1],[150,55,44,1.6],[290,63,62,.8],[80,66,36,1.3]].forEach(([o,y,w,sp])=>{const x=((T*sp+o)%440)-70;pkBlob(D,x,y,w,css(cc,(.5+wx.cloud*.4)*cov));});}
 // the lake: the colour of the sky, with the mountains and the hills upside down in it
@@ -1946,9 +1966,9 @@ function pkrLake(D,night,warm,T0,B0){const c=D.px?D.c:C,day=1-night;
   const wT=mixA(mixA(B0,T0,.35),hex('#3f93a0'),.34*day),wB=mixA(mixA(T0,hex('#1c5f7a'),.5*day),hex('#0b1230'),night*.35);
   if(D.px){for(let y=LAKE_Y;y<118;y++){c.fillStyle=css(mixA(wT,wB,(y-LAKE_Y)/26));c.fillRect(118,y,150,1);}}
   else{const gr=c.createLinearGradient(0,LAKE_Y,0,118);gr.addColorStop(0,css(wT));gr.addColorStop(1,css(wB));c.fillStyle=gr;c.fillRect(118,LAKE_Y-.5,150,26.5);}
-  const pa=(1-wx.cloud*.9)*(1-wx.fog)*(1-night*.62);
-  if(pa>.02){c.save();c.beginPath();c.rect(118,LAKE_Y,150,26);c.clip();c.globalAlpha=pa*.5;
-    pkPeaks(D,css(mixA(mixA(hex('#f8fafc'),hex('#ffb98a'),warm*.6),wT,.3+night*.3)),css(mixA(hex('#a9bbdc'),wT,.4+night*.3)),null,y=>94+(70-y)*.44);c.restore();c.globalAlpha=1;}
+  const pa=(1-wx.cloud*.9)*(1-wx.fog)*(1-night*.55);
+  if(pa>.02){c.save();c.beginPath();c.rect(118,LAKE_Y,150,26);c.clip();c.globalAlpha=pa*.55;
+    const col=pkMtnCols(night,warm,mixA(B0,wT,.5));pkPeaks(D,col,y=>93+(72-y)*.44,false);c.restore();c.globalAlpha=1;}
   {const p=[118,LAKE_Y];for(let x=118;x<=268;x+=4)p.push(x,LAKE_Y+1.4+(86-pkHillY(x))*.34);p.push(268,LAKE_Y);c.globalAlpha=.5;D.poly(p,css(mixA(hex('#2e5f4a'),wB,.3+.45*night)));c.globalAlpha=1;}
   const sh=day*(1-wx.fog)*.3;if(sh>.02)for(let i=0;i<13;i++){const x=128+((i*53+T*(.9+i%3*.5))%126),y=97+(i*7)%19;D.rect(x,y,2.4+i%3,.45,`rgba(255,255,255,${sh})`);}
   if(wx.rain>.2)for(let i=0;i<10;i++){const t=(T*1.1+i*.37)%1,x=130+(i*41)%122,y=96+(i*13)%20;D.rect(x-t*1.6,y,t*3.2,.4,`rgba(230,240,250,${.4*(1-t)*wx.rain})`);}}
@@ -2087,15 +2107,15 @@ const PL={
     tl:[[160,85],[170,85],[228,109],[240,109],[288,109],[300,109]],steam:[[61,105],[41,100],[41,100],[40,100]],pig:[120,130],npig:6,nroof:2,
     aria:'Bhaktapur Durbar Square: the five-storey Nyatapola temple on its stepped plinths, the Bhairavnath temple, King Bhupatindra Malla on his pillar, momo, tea and juju dhau shops, a potter and pots drying in the sun, seen from the temple steps where a baje sits with a radio'},
   pkr:{name:'Pokhara',full:'Pokhara Lakeside',bg:bgPk,fg:fgPk,glow:glowPk,lamps:lampsPk,shops:{chiya:{x:260,y:100,w:42,h:18}},seats:[175,189,203,217,231,245,259,273,287,301],seatR:[168,314],roff:36,makai:true,
-    spots:[{x:46,y:100,w:80},{x:46,y:84,w:60},{x:281,y:76,w:44},{x:112,y:103,w:16},{x:193,y:109,w:86}],
-    tstr:[[2,104,90,104,1],[12,88,80,88,1],[253,83,309,83,0],[147,110,186,110,0],[201,110,240,110,0]],diyo:[175,189,203,217,231,245,259,273,287,301],board:[-400,0],mir:false,ymin:124,dogs:DOGS_PK,
-    visit:[{k:'chiya',x:292,y:125}],stairs:{x:46,ys:[112,106,100,94]},
-    tl:[[38,83],[54,83],[103,103],[121,103],[268,60],[308,60]],steam:[[269,105]],pig:[150,110],npig:7,nroof:2,
-    aria:'Pokhara: the white World Peace Stupa, the golden five-headed Ganesh, Phewa lake with painted boats under the snowy Annapurna range, the Shiva statue above a tea shop, people, cyclists, pigeons and street dogs, seen from the lakeside steps where an aama roasts makai and sits with a radio'}};
+    spots:[{x:82,y:100,w:80},{x:82,y:84,w:60},{x:281,y:76,w:44},{x:19,y:103,w:14},{x:193,y:109,w:86}],
+    tstr:[],diyo:[],board:[-400,0],mir:false,ymin:124,dogs:DOGS_PK,
+    visit:[{k:'chiya',x:292,y:125}],stairs:{x:82,ys:[112,106,100,94]},
+    tl:[[74,83],[90,83],[9,107],[29,107],[268,60],[308,60]],steam:[[269,105]],pig:[150,110],npig:7,nroof:2,
+    aria:'Pokhara: the five-headed Ganesh, the white World Peace Stupa, Phewa lake with painted boats under the snowy Annapurna range, the Shiva statue above a tea shop, people, cyclists, pigeons and street dogs, seen from the lakeside steps where an aama roasts makai and sits with a radio'}};
 const PLACE_ORDER=['ktm','patan','bkt','pkr'];
 let TLAMPS=PL.ktm.tl,STEAM=PL.ktm.steam,VISIT=PL.ktm.visit;
 function setPlace(p){place=p;const P=PL[p];curBG=P.bg;curFG=P.fg;winGlow=P.glow;lamps=P.lamps;SPOTS=P.spots;SHOPS=P.shops;SEATS=P.seats;SEATR=P.seatR;
-  TSTR=P.tstr;DIYO=P.diyo;BOARD=P.board;MIR=P.mir;YMIN=P.ymin;TLAMPS=P.tl;STEAM=P.steam;VISIT=P.visit;SEATX=P.seatX||null;STAIRS=P.stairs||null;MIRC=P.mirC||W;ROFF=P.roff||0;pkBoats=[];pkSmoke=[];
+  TSTR=P.tstr;DIYO=P.diyo;BOARD=P.board;MIR=P.mir;YMIN=P.ymin;TLAMPS=P.tl;STEAM=P.steam;VISIT=P.visit;SEATX=P.seatX||null;STAIRS=P.stairs||null;MIRC=P.mirC||W;ROFF=P.roff||0;pkBoats=[];pkSmoke=[];fest=pickFest();
   dogs=P.dogs();play=null;playT=40+Math.random()*80;
   {const h=hourNow(),n=lateNight(h)?(Math.random()<.5?1:0):dogNight(h)||h>=20.5?2:4;walkers=Array.from({length:n},()=>newWalker(false));spawnT=lateNight(h)?40+Math.random()*120:1;}steam=[];notes=[];zs=[];daiPrev=null;sparks=[];fx=[];plates=dogs.map(d=>({x:clamp(d.x+10,20,300),y:clamp(d.y,YMIN+8,146)}));
   pigeons=PIGS.slice(0,P.npig);const ng=P.npig-P.nroof;

diff --git a/README.md b/README.md
@@ -14,7 +14,7 @@ To add a place card, edit `HOME` in index.html (search for "home screen: choose 
 To post a new "food for thought", add a line at the top of `FOOD` (search for "food for thought") with the date as its `id`. The newest shows on the home screen with pixel reaction buttons; older ones move to "Earlier thoughts".
 
 ## Pokhara
-The World Peace Stupa (people climb its stairs and sit), the golden five-headed Ganesh, Phewa lake with painted boats under the Annapurna range (the lake mirrors the mountains; clouds drift across them), a waterfall, the Shiva statue above a chiya shop, and painted kerbs and a mural wall along the road.
+The five-headed Ganesh, the World Peace Stupa (people climb its stairs and sit), Phewa lake with painted boats under the Annapurna range (the lake mirrors the mountains; clouds drift across them), a waterfall, the Shiva statue above a chiya shop, and a plain stone wall and street lamps along the road. There are no festival decorations in Pokhara.
 An aama sits on the steps with the radio and roasts makai: she reads her paper, sips tea, fans the fire now and then, and people stop to buy a paper cone of makai. Her fire and its thin smoke are only there while she is awake (she sleeps 9 PM–6 AM like the others).
 Rowing boats go out on the lake and come back in the daytime; motorbikes pass now and then; paragliders (every 1.5–3 hours, 7 AM–5:30 PM) and a hot air balloon (every 2–4 hours) appear in fair weather.
 All of it is in index.html: search for "Pokhara (Lakeside)".
